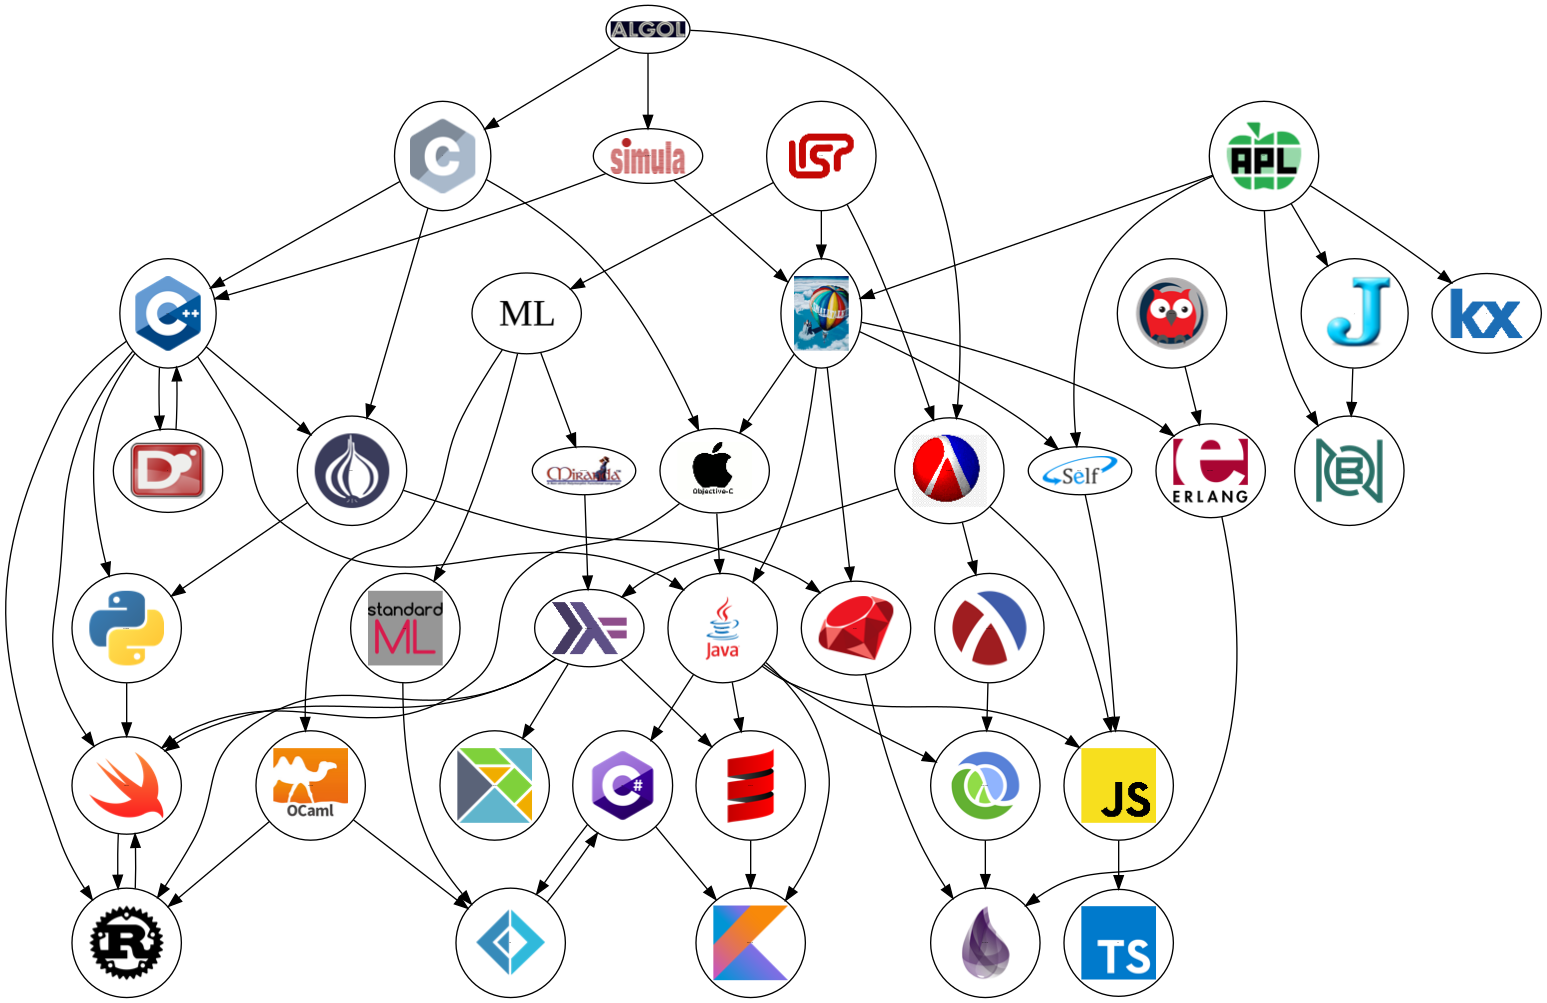
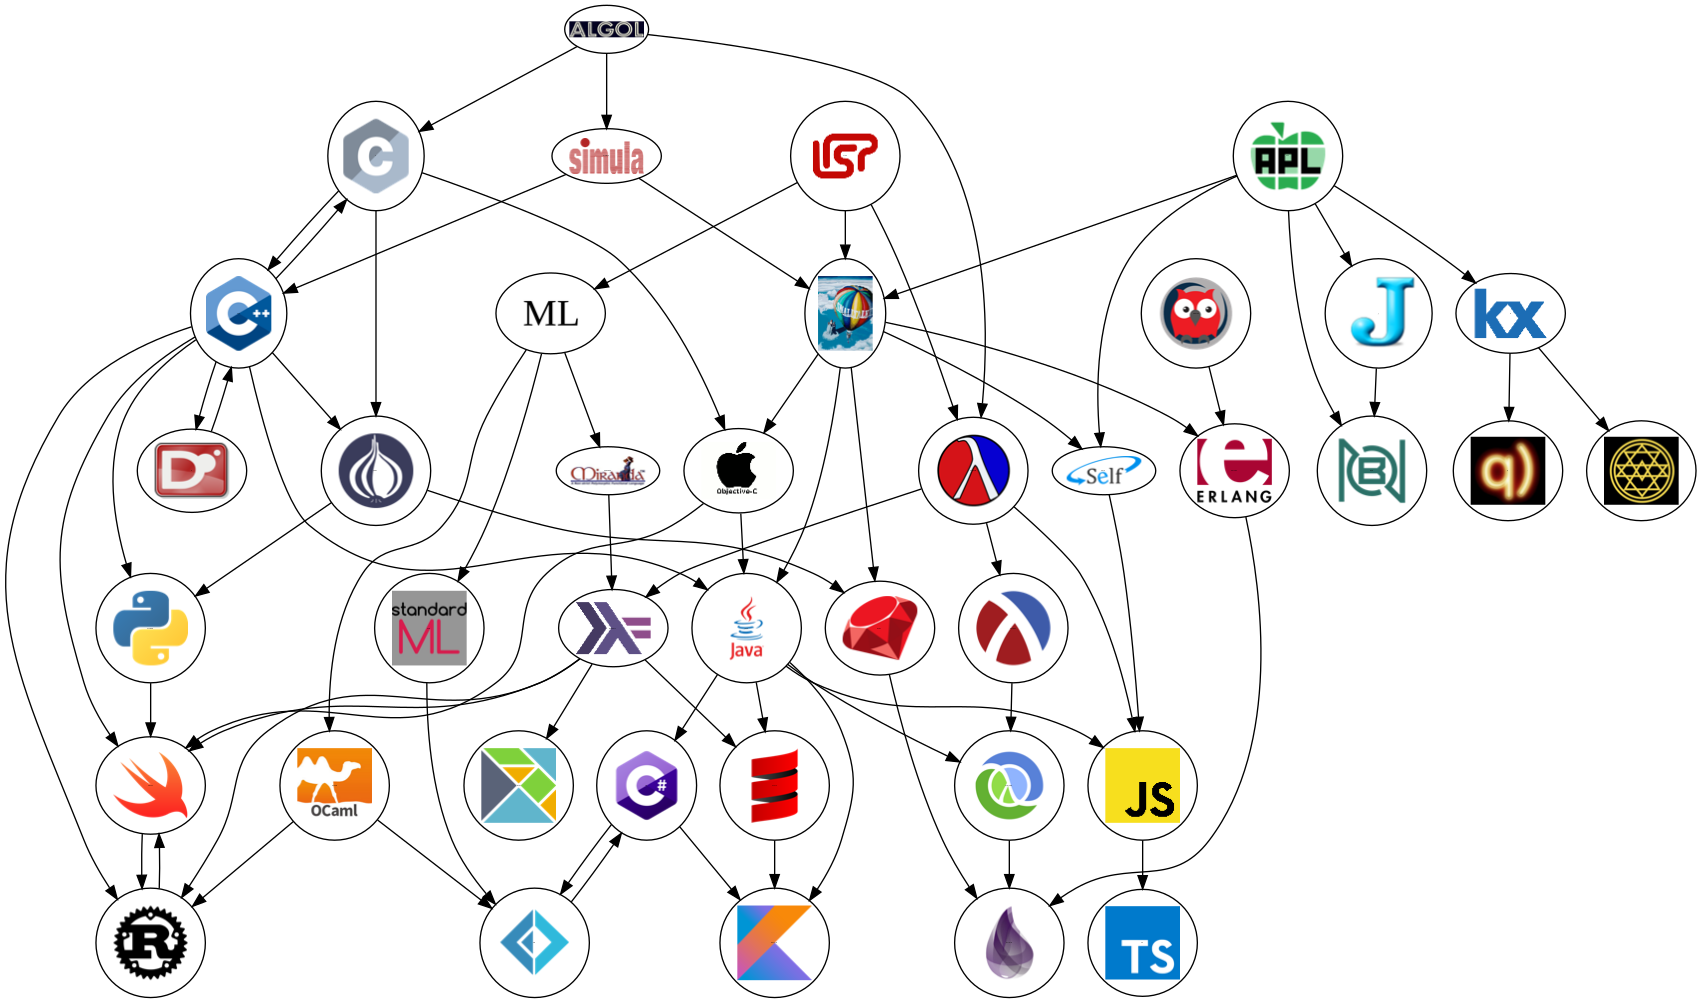
additional changes

diff --git a/plgraph-graphviz.py b/plgraph-graphviz.py
@@ -29,12 +29,14 @@ logos = { 'ALGOL':     './logos/algol_logo.png',
           'PERL':      './logos/perl_logo.png',
           'PROLOG':    './logos/prolog_logo.png',
           'PYTHON':    './logos/python_logo.png',
+          'Q':         './logos/q_logo.png',
           'RACKET':    './logos/racket_logo.png',
           'RUBY':      './logos/ruby_logo.png',
           'RUST':      './logos/rust_logo.png',
           'SCALA':     './logos/scala_logo.png',
           'SCHEME':    './logos/scheme_logo.png',
           'SELF':      './logos/self_logo.png',
+          'SHAKTI':    './logos/shakti_logo.png',
           'SIMULA':    './logos/simula_logo.png',
           'SMALLTALK': './logos/smalltalk_logo.jpeg',
           'SML':       './logos/sml_logo.jpg',
@@ -65,6 +67,7 @@ dependencies = { 'BQN'      : ['J', 'APL'],
                  'SCALA'    : ['LISP', 'ERLANG', 'SCHEME', 'SMALLTALK', 'HASKELL', 'JAVA', 'F#', 'SML'], # EIFFEL Ocaml oz
                  'SCHEME'   : ['ALGOL', 'LISP'],
                  'SELF'     : ['APL', 'SMALLTALK'],
+                 'SHAKTI'   : ['K'],
                  'SIMULA'   : ['ALGOL'],
                  'SMALLTALK': ['LISP', 'SIMULA', 'APL'],                                       # MANY MORE
                  'SML'      : ['ML'], #PASCAL
@@ -77,7 +80,7 @@ dependencies = { 'BQN'      : ['J', 'APL'],
 dependencies_light = { 
                  'ALGOL'    : ['FORTRAN'],
                  'BQN'      : ['J', 'APL'],
-                 'C'        : ['ALGOL', 'FORTRAN'],                         # B BCPL PL/I FORTRAN
+                 'C'        : ['ALGOL', 'FORTRAN', 'CPP'],                         # B BCPL PL/I FORTRAN
                  'CLOJURE'  : ['JAVA', 'RACKET'],
                  'CPP'      : ['SIMULA', 'C', 'D'],                         # ADA BCPL CLU Modula 2
                  'C#'       : ['JAVA', 'F#'],                               # Eiffel ML modula 3
@@ -98,9 +101,11 @@ dependencies_light = {
                  'OCAML'    : ['ML'],
                  'PERL'     : ['CPP', 'C'],                                 # many more
                  'PYTHON'   : ['CPP', 'PERL'],                              # ADA CLU DYLAN modula 3
+                 'Q'        : ['K'],
                  'SCALA'    : ['HASKELL', 'JAVA'],                          # EIFFEL Ocaml oz
                  'SCHEME'   : ['ALGOL', 'LISP'],
                  'SELF'     : ['APL', 'SMALLTALK'],
+                 'SHAKTI'   : ['K'],
                  'SIMULA'   : ['ALGOL'],
                  'SMALLTALK': ['LISP', 'SIMULA', 'APL'],                    # MANY MORE
                  'SML'      : ['ML'],                                       #PASCAL
